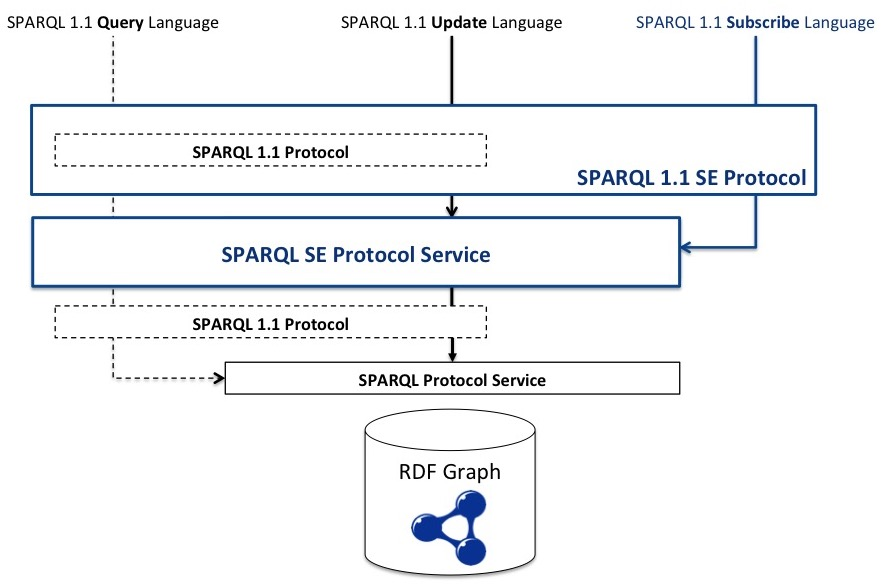
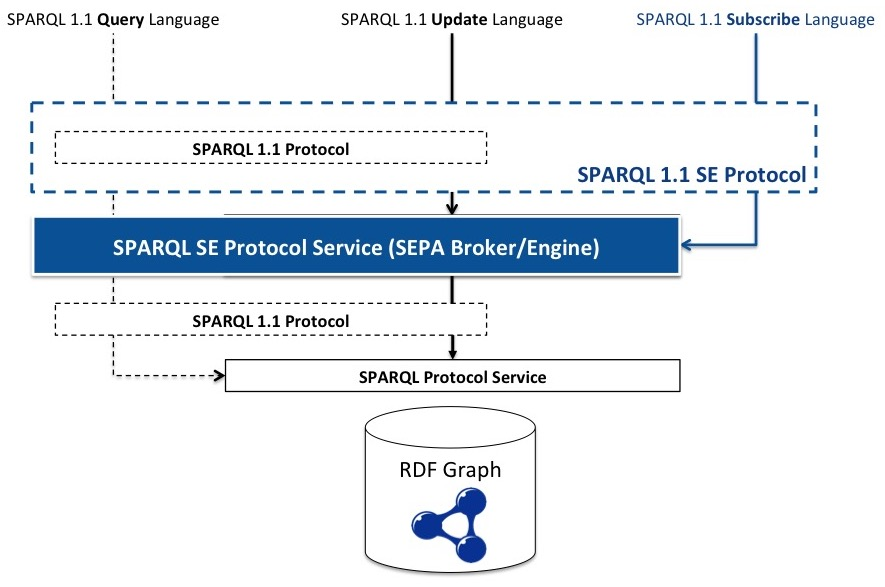
Updated according to current SEPA broker version 0.9.5

Changed region(s): [[0.0306, 0.0, 1.0, 0.7089], [0.3975, 0.7089, 0.6116, 1.0], [0.0, 0.0, 0.2446, 0.0616]]

diff --git a/sparql11-subscribe.html b/sparql11-subscribe.html
@@ -8,50 +8,47 @@
 	src="http://pandora.aptest.com/w3c/respec-style/builds/respec-w3c-common.js"
 	class="remove"></script>
 <script class='remove'>
-      var respecConfig = {
-      
-        // document info
-        specStatus:           "unofficial",
-        shortName:            "sparql11-subscribe",      
-        copyrightStart:       "2017",
-        edDraftURI:           "https://mml.arces.unibo.it/TR/sparql11-subscribe.html",
-        extraCSS:             ["css/respec.css"],
-      
-         // editors
-        editors:  [
-        { 
-          name: "Cristiano Aguzzi", 
-          mailto: "cristiano.aguzzi@unibo.it"
-        },
-         { 
-          name: "Francesco Antoniazzi", 
-          mailto: "francesco.antoniazzi@unibo.it"
-        },
-        { 
-          name: "Luca Roffia", 
-          mailto: "luca.roffia@unibo.it"
-        },
-        { 
-          name: "Fabio Viola", 
-          mailto: "fabio.viola@unibo.it"
-        }
-        ],
-      
-        // WG
-        wg:           "Linked Data and Web of Things working group of the ARCES laboratory",
-        wgURI:        "http://wot.arces.unibo.it/",
-      };
-    </script>
+	var respecConfig = {
+
+		// document info
+		specStatus : "unofficial",
+		shortName : "sparql11-subscribe",
+		copyrightStart : "2017",
+		edDraftURI : "https://mml.arces.unibo.it/TR/sparql11-subscribe.html",
+		extraCSS : [ "css/respec.css" ],
+
+		// editors
+		editors : [ {
+			name : "Cristiano Aguzzi",
+			mailto : "cristiano.aguzzi@unibo.it"
+		}, {
+			name : "Francesco Antoniazzi",
+			mailto : "francesco.antoniazzi@unibo.it"
+		}, {
+			name : "Luca Roffia",
+			mailto : "luca.roffia@unibo.it"
+		}, {
+			name : "Fabio Viola",
+			mailto : "fabio.viola@unibo.it"
+		} ],
+
+		// WG
+		wg : "Linked Data and Web of Things working group of the ARCES laboratory",
+		wgURI : "http://wot.arces.unibo.it/",
+	};
+</script>
 
 </head>
 
 <body>
 
 	<!-- ABSTRACT -->
-	<section id="abstract">This document describes the SPARQL 1.1
-		Subscribe Language used within the <a href="http://mml.arces.unibo.it/TR/sepa.html">SPARQL Event Processing
-		Architecture</a> to describe subscription requests and
-		notifications.</section>
+	<section id="abstract">
+		This document describes the SPARQL 1.1 Subscribe Language used within
+		the <a href="http://mml.arces.unibo.it/TR/sepa.html">SPARQL Event
+			Processing Architecture</a> to describe subscription requests and
+		notifications.
+	</section>
 
 	<!-- STATUS OF THIS DOCUMENT -->
 	<section id="sotd">This is a first draft.</section>
@@ -61,11 +58,11 @@
 		<h2>Introduction</h2>
 		<p>
 			The SPARQL 1.1 Subscribe Language defines the content of the
-			following elements: primitives (i.e., <i>subscribe</i> and <i>unsubscribe</i>) and
-			<i>notifications</i>. Every SEPA implementation MUST
-			provide a JSON serialization [[!RFC7159]] of the all these elements.
-			Other kinds of serialization formats MAY be provided. This document
-			refers to the REQUIRED JSON serialization.
+			following elements: primitives (i.e., <i>subscribe</i> and <i>unsubscribe</i>)
+			and <i>notifications</i>. Every SEPA implementation MUST provide a
+			JSON serialization [[!RFC7159]] of the all these elements. Other
+			kinds of serialization formats MAY be provided. This document refers
+			to the REQUIRED JSON serialization.
 		</p>
 		<p>The SPARQL 1.1 Subscribe Language is framed within W3C
 			Recommendations as shown in the following figure.</p>
@@ -127,8 +124,13 @@
 			<pre class="example" title="Subscribe request">
 {"<b>subscribe</b>":{
    "<b>sparql</b>":"<code>select * where {?s ?p ?o}</code>",
-   "<b>authorization</b>" : "<code>Bearer</code> eyJhbGciOiJIUzI1NiIsInR5cCI6IkpXVCJ9.eyJzdWIiOiIxMjM0NTY3ODkwIiwibmFtZSI6IkpvaG4gRG9lIiwiYWRtaW4iOnRydWV9.TJVA95OrM7E2cBab30RMHrHDcEfxjoYZgeFONFh7HgQ",
-   "<b>alias</b>" : "All"}}</pre>
+   "<b>authorization</b>" (optional) : "<code>Bearer</code> eyJhbGciO....ZgeFONFh7HgQ",
+   "<b>alias</b>" (optional) : "All"
+   "<b>default-graph-uri</b>" (optional) : it corresponds to the "default-graph-uri" parameter 
+   		defined in the SPARQL 1.1 Protocol
+   "<b>named-graph-uri</b>" (optional): it corresponds to the "named-graph-uri" parameter 
+   		defined in the SPARQL 1.1 Protocol
+ }}</pre>
 
 			<p>
 				The value of the
@@ -136,8 +138,9 @@
 				member MUST be a SPARQL 1.1 Query [[sparql11-query]], the value of
 				the
 				<code>authorization</code>
-				member (if present) MUST be a <code>Bearer</code> JSON Web Token [[!RFC7519]] and the
-				value of the
+				member (if present) MUST be a
+				<code>Bearer</code>
+				JSON Web Token [[!RFC7519]] and the value of the
 				<code>alias</code>
 				member (if present ) is a string representing a friendly name of the
 				subscription.
@@ -160,6 +163,14 @@
 				alias and link it with the subscription URI [[!RFC3986]] contained
 				in the subscribe response message.
 			</p>
+			<p>
+				The value of the
+				<code>default-graph-uri</code>
+				and of the
+				<code>named-graph-uri</code>
+				(if present) have the same meaning and content of the corresponding
+				parameters defined in the SPARQL 1.1 Protocol [[sparql11-protocol]]
+			</p>
 		</section>
 
 		<section id="SubscribeResponse">
@@ -176,13 +187,28 @@
 			<p>
 				The value of the
 				<code>spuid</code>
-				member is an URI [[!RFC3986]], while the <code>sequence</code> member is a number and it will be always 0. Both members MUST be present. The <code>sequence</code> member 
-				will be incremented by one on each following <a href="#Notification">notification</a>. The
+				member is an URI [[!RFC3986]], while the
+				<code>sequence</code>
+				member is a number and it will be always 0. Both members MUST be
+				present. The
+				<code>sequence</code>
+				member will be incremented by one on each following <a
+					href="#Notification">notification</a>.
+			</p>
+			<p>
+				The
 				<code>alias</code>
 				member (if present) has the same value of the corresponding
 				<code>alias</code>
-				member of the subscribe request. Eventually, the value of the <code>addedResults</code> member corresponds to the 
-				results of the SPARQL query according to the SPARQL 1.1 Query Results JSON format [[sparql11-results-json]], while the value of the <code>removedResults</code>
+				member of the subscribe request.
+			</p>
+			<p>
+				Eventually, the value of the
+				<code>addedResults</code>
+				member corresponds to the results of the SPARQL query according to
+				the SPARQL 1.1 Query Results JSON format [[sparql11-results-json]],
+				while the value of the
+				<code>removedResults</code>
 				will be always an empty object.
 			</p>
 			<p>
@@ -202,17 +228,22 @@
 			<pre class="example" title="Unsubscribe request">
 {"<b>unsubscribe</b>":{
    "<b>spuid</b>":"<code>sepa://subscription/0d057ca5-cc10-4e8a-a5d9-59d7b36f71d6</code>",
-   "<b>authorization</b>":"<code>Bearer</code> eyJhbGciOiJIUzI1NiIsInR5cCI6IkpXVCJ9.eyJzdWIiOiIxMjM0NTY3ODkwIiwibmFtZSI6IkpvaG4gRG9lIiwiYWRtaW4iOnRydWV9.TJVA95OrM7E2cBab30RMHrHDcEfxjoYZgeFONFh7HgQ"}}</pre>
+   "<b>authorization</b>" (optional) :"<code>Bearer</code> eyJhbGciOiJIUzI....ONFh7HgQ"}}</pre>
 			<p>
 				The
 				<code>spuid</code>
-				member value is the subscription URI ([[!RFC3986]]) provided by the
-				subscribe response message. The value of the
-				<code>authorization</code>
-				member (if present) MUST be a <code>Bearer</code> JSON Web Token [[!RFC7519]]. The
-				former member is REQUIRED, while the latter is only REQUIRED for
-				secure primitives.
+				member value is the subscription URI [[!RFC3986]] provided by the
+				subscribe response message.
 			</p>
+			<p>
+				The value of the
+				<code>authorization</code>
+				member (if present) MUST be a
+				<code>Bearer</code>
+				JSON Web Token [[!RFC7519]].
+			</p>
+			<p>The former member is REQUIRED, while the latter is only
+				REQUIRED for secure primitives.</p>
 		</section>
 
 		<section id="UnsubscribeResponse">
@@ -246,18 +277,26 @@
 			The value of
 			<code>spuid</code>
 			member is the URI [[!RFC3986]] of the subscription who generates the
-			notification, the value of the
+			notification.
+		</p>
+		<p>
+			The value of the
 			<code>sequence</code>
 			member is a number (incremented by one at every new notification of
-			the same SPUID). The <code>addedResults</code>
+			the same SPUID).
+		</p>
+		<p>
+			The
+			<code>addedResults</code>
 			and
-			<code>removedResults</code> are two JSON objects whose content conform with the <a
-				href="https://www.w3.org/TR/sparql11-results-json//">SPARQL 1.1 Query Results JSON format
-				</a>.
+			<code>removedResults</code>
+			are two JSON objects whose content conform with the <a
+				href="https://www.w3.org/TR/sparql11-results-json//">SPARQL 1.1
+				Query Results JSON format </a>.
 		</p>
 
 	</section>
-<!--  
+	<!--  
 	<section id="Ping">
 		<h3>Ping</h3>
 		<p>The default content of a ping message follows:</p>
@@ -275,13 +314,33 @@
 		<p>In case of error, a SEPA broker implementation SHOULD reply
 			with a JSON object like the following:</p>
 		<pre class="example" title="Error response">
- {"<b>error</b>":{
-    "<b>body</b>":"Internal Server Error: SPARQL endpoint not found",
-    "<b>code</b>":500}}
+ {
+   "<b><code>error</code></b>":"unauthorized_client",
+   "<b><code>error_description</code></b>": "Client is not authorized",
+   "<b><code>status_code</code></b>" : 400
+ }
  </pre>
-		<p>If applies, the use of use of HTTP status codes [[!RFC2616]] is
-			RECOMMENDED. As reference, a list of common HTTP status codes
-			follows:</p>
+
+		<p>
+			The
+			<code>error</code>
+			member is a string representing the error. Refer to [[!RFC6749]] for
+			all OAuth related errors. Otherwise it would be a SPARQL 1.1 SE
+			Protocol specific error string.
+		</p>
+		<p>
+			The
+			<code>error_description</code>
+			member is optional and if present it provides a human readable
+			description of the error.
+		</p>
+		<p>
+			The
+			<code>status_code</code>
+			member is an integer representing the error. The use of use of HTTP
+			status codes [[!RFC2616]] is RECOMMENDED. As reference, a list of
+			common HTTP status codes follows. Implementation specific error codes
+			MAY also be used.
 		<pre>
 400 Bad Request
 401 Unauthorized
@@ -309,7 +368,6 @@
 504 Gateway Timeout
 505 HTTP Version Not Supported
 	</pre>
-		<p>Implementation specific error codes MAY also be used.</p>
 	</section>
 	<!-- APPENDIX -->
 	<section class="appendix">

diff --git a/jsap.html b/jsap.html
@@ -76,7 +76,9 @@
       A JSAP file MUST be a JSON document compliant with RFC 7159
       [[!RFC7159]] and SHOULD NOT be modified at runtime, as it describes
       the application scope. The need of runtime modifications of the JSAP
-      file is to be considered as a bad practice.
+      file is to be considered as a bad practice. Other serialization formats 
+      (e.g., YAML, XML) MAY be used but their definition is out of the context
+      of this document.
       <!--Instead, the Authors suggest the use of more than one JSAP file or, of course, the review of the SPARQL code.-->
     </p>
 
@@ -217,6 +219,7 @@
     <p>A JSAP is structured as follows.
     <pre class="example" title="JASP structure" id="JSAPMainStructure">
 {"<b>host</b>":"Host name or IP",
+ "<b>oauth</b>":{...},
  "<b>sparql11protocol</b>":{...},
  "<b>sparql11seprotocol</b>":{...},
  "<b>namespaces</b>":{
@@ -351,11 +354,8 @@
     "wss":{
       "port":9443,
       "path":"/secure/subscribe"},
-    ...},
-  "<b>security</b>":{
-    "<b>registration</b>":"https://mml.arces.unibo.it:8443/oauth/register",
-    "<b>tokeRequest</b>":"https://mml.arces.unibo.it:8443/oauth/token",
-    }</pre>
+    ...}
+ </pre>
      
       The URLs corresponding to the above protocol configuration (not secure) follow:
       <pre class="example" title="URLs used by SEPA primitives (not secure)">
@@ -366,8 +366,25 @@
 
 - Subscribe: ws://mml.arces.unibo.it:9000/subscribe</pre>
 
-In order to connect to a secure SEPA broker, the following changes should be made on the above protocol configurations:
+ <section>
+      <h3>Security</h3>
+Connecting to a secure SEPA broker require the following changes to the above protocol configurations:
 
+<pre class="example" title="Enabling security and client authorization"
+        id="oauth">
+ {
+ ...,
+  "<b>oauth</b>":{
+    "<b>enabled</b>":<b>true</b>,
+    "<b>registration</b>":"https://mml.arces.unibo.it:8443/oauth/register",
+    "<b>tokeRequest</b>":"https://mml.arces.unibo.it:8443/oauth/token",
+    } ,
+  ...
+  }    
+</pre>
+
+The <code>oauth</code> member allows to specify the Authorization Server URLs used to register a new client identity and request tokens.
+    
   <pre class="example" title="SPARQL 1.1 protocol parameters (secure)"
         id="sparql11protocol">
 "<b>sparql11protocol</b>": {
@@ -410,7 +427,7 @@ The corresponding URLs would be as follows:
           Encryption Standard (AES)</a>) like in the following example:
       </p>
       <pre class="note" title="Storing client credentials">
-"security":{
+"oauth":{
   ...,
   "<b>client_id</b>":"TP6...RPC9",
   "<b>client_secret</b>":"SVEM...+EPFU",
@@ -419,7 +436,7 @@ The corresponding URLs would be as follows:
   "<b>type</b>":"XPRHEX2XHY+5IUXHPHIGMW=="}
 </pre>
     </section>
-
+</section>
     <section>
       <h3>Namespaces</h3>
 

diff --git a/sparql11-se-protocol.html b/sparql11-se-protocol.html
@@ -412,14 +412,14 @@ QK0vTOefpgumKtRHrlCe0JGHBnPNqo8Zp7cVivZnin8NsePcuweFgZxWfaOC-EH5ClpqjPEbjj65g</c
 		<p>In case of error, a SEPA broker implementation SHOULD reply
 			with a JSON object like the following:</p>
 		<pre class="example" title="Error response">
- { "<b>error</b>": 
-   { "<b>body</b>" : "Internal Server Error: SPARQL endpoint not found" , 
-     "<b>code</b>" : 500}}
+ {
+   "<b>error</b>": A string representing the error. Refer to RFC6749 for all authorization errors, otherwise it would be SPARQL 1.1 SE Protocol specific,
+   "<b>error_description</b>": Refer to RFC6749 for all authorization errors, otherwise it would be SPARQL 1.1 SE Protocol specific (OPTIONAL),
+   "<b>status_code</b>" : if applies, the use of use of HTTP status codes [[!RFC2616]] is RECOMMENDED. As reference, a list of common HTTP status codes
+			follows. Implementation specific error codes MAY also be used.
+ }
  </pre>
-		<p>If applies, the use of use of HTTP status codes [[!RFC2616]] is
-			RECOMMENDED. As reference, a list of common HTTP status codes
-			follows:</p>
-		<pre>
+<pre>
 400 Bad Request
 401 Unauthorized
 402 Payment Required
@@ -446,7 +446,6 @@ QK0vTOefpgumKtRHrlCe0JGHBnPNqo8Zp7cVivZnin8NsePcuweFgZxWfaOC-EH5ClpqjPEbjj65g</c
 504 Gateway Timeout
 505 HTTP Version Not Supported
 	</pre>
-		<p>Implementation specific error codes MAY also be used.</p>
 	</section>
 
 
